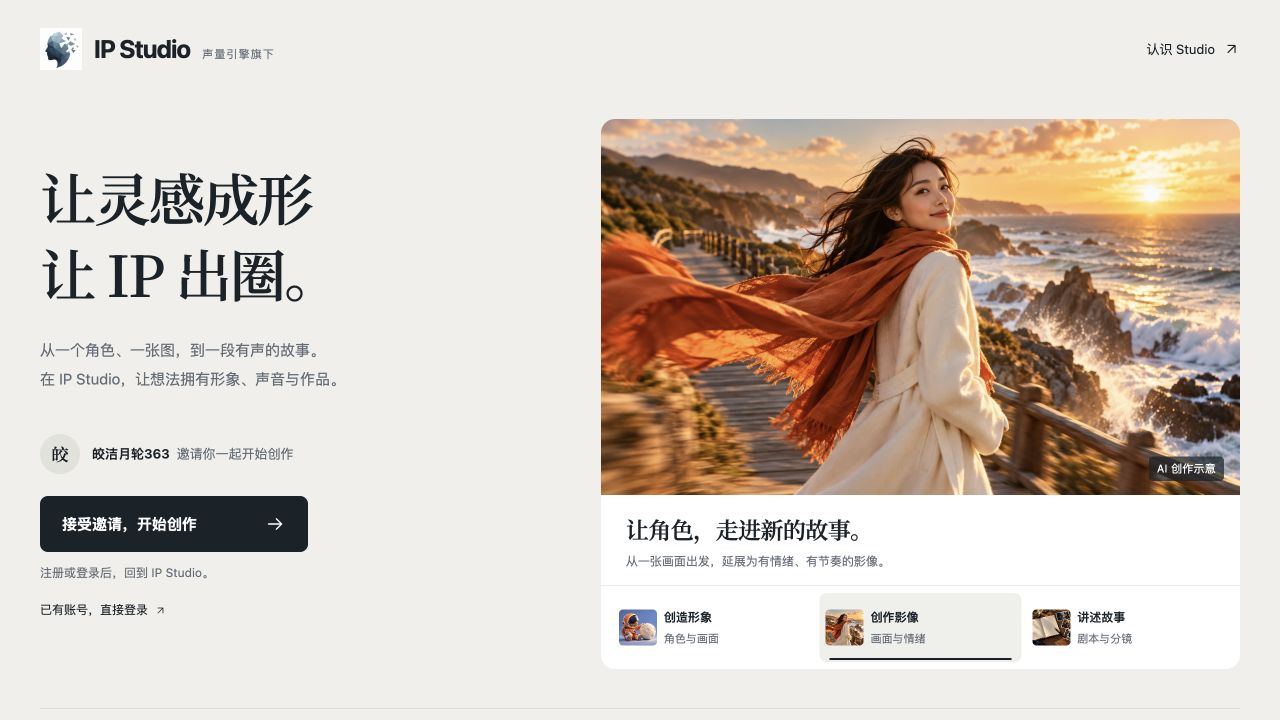
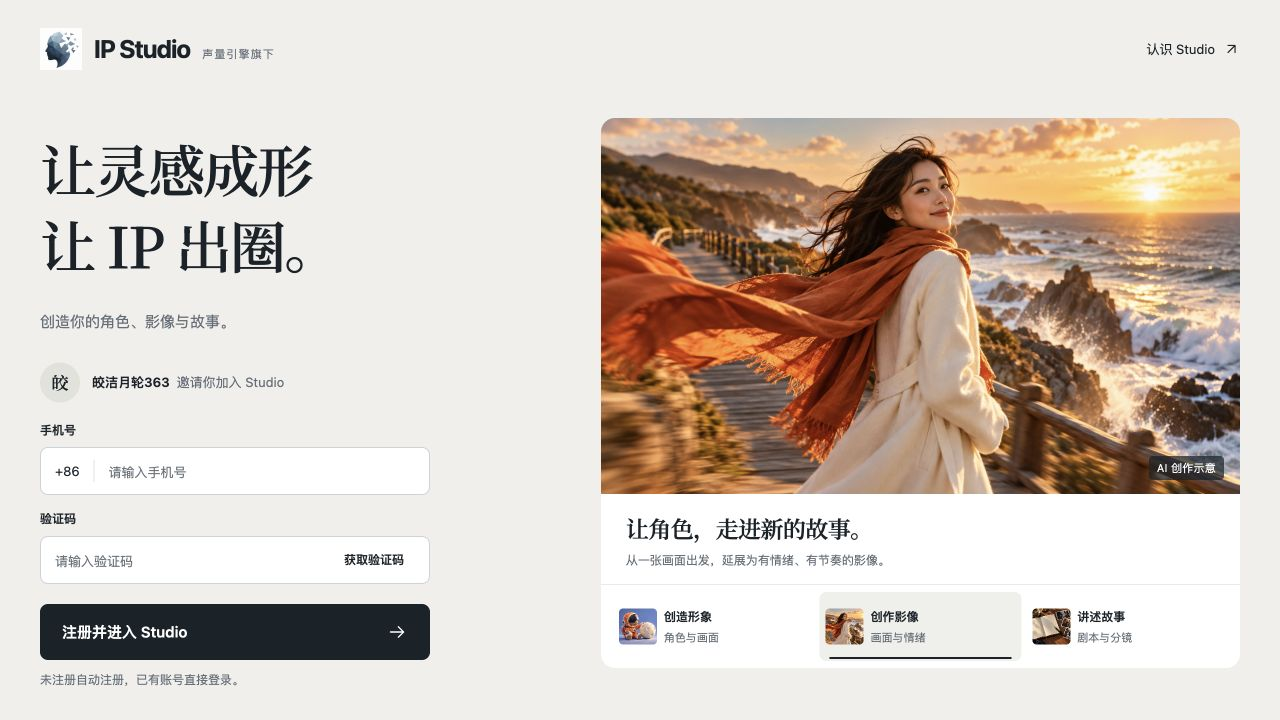
design(studio): 邀请页直接展示手机号注册表单

diff --git a/prototypes/studio-invitation/style.css b/prototypes/studio-invitation/style.css
@@ -1,6 +1,8 @@
 :root{--bg:#f0efec;--paper:#fff;--ink:#192229;--muted:#626c76;--line:#d9dcde;--soft:#f6f6f5;--serif:'Noto Serif SC','Songti SC',serif;--sans:'Manrope','Noto Sans SC',-apple-system,BlinkMacSystemFont,'Segoe UI',sans-serif;--ease:cubic-bezier(.22,1,.36,1);color-scheme:light}
-*{box-sizing:border-box}[hidden]{display:none!important}html{scroll-behavior:smooth;scroll-padding-top:30px}body{margin:0;background:var(--bg);color:var(--ink);font:15px/1.65 var(--sans);padding-bottom:38px}::selection{background:#e5dac7;color:var(--ink)}button,select{font:inherit;color:inherit}button,a,summary,select{-webkit-tap-highlight-color:transparent}button{cursor:pointer}a{color:inherit;text-decoration:none}button:focus-visible,a:focus-visible,summary:focus-visible,select:focus-visible{outline:2px solid var(--ink);outline-offset:5px}h1,h2,h3,p{margin:0}svg{width:22px;height:22px;fill:none;stroke:currentColor;stroke-width:1.6;stroke-linecap:round;stroke-linejoin:round;flex-shrink:0}button:disabled{opacity:.55;cursor:default}.header{max-width:1344px;margin:auto;padding:28px 40px;display:flex;justify-content:space-between;align-items:center}.brand{display:flex;align-items:center;gap:12px}.brand img{object-fit:contain}.brand>span{display:flex;align-items:baseline;gap:12px}.brand strong{font-size:25px;letter-spacing:-.035em}.brand small{font-size:11px;color:var(--muted);letter-spacing:.1em}.quiet-link{display:inline-flex;align-items:center;gap:8px;font-size:13px}.quiet-link svg{width:17px;height:17px}.quiet-link:hover,.login-link:hover{text-decoration:underline;text-underline-offset:5px}main{max-width:1264px;margin:auto}.hero{display:grid;grid-template-columns:.9fr 1.1fr;align-items:center;gap:64px;min-height:610px;padding:20px 0 38px}.hero-copy{padding:0 0 0 20px}h1{font:600 clamp(45px,4.4vw,64px)/1.35 var(--serif);letter-spacing:-.035em}.period{font-family:var(--serif)}.intro{margin-top:25px;color:var(--muted);font-size:15px;line-height:1.95}.invitation{margin-top:40px;max-width:390px}.inviter{display:flex;gap:12px;align-items:center;margin-bottom:22px}.avatar{width:40px;height:40px;border-radius:50%;display:grid;place-items:center;background:#e2e2dc;font:600 17px var(--serif)}.inviter p{display:flex;flex-wrap:wrap;gap:3px 7px;line-height:1.65;font-size:13px}.inviter strong{font-weight:650}.inviter p span{color:var(--muted)}.primary{border:0;border-radius:8px;background:var(--ink);color:var(--paper);display:inline-flex;align-items:center;justify-content:space-between;gap:28px;min-height:56px;min-width:268px;padding:15px 22px;font-weight:600;transition:background .16s var(--ease)}.primary:hover{background:#323e45}.primary svg{width:21px}.return-note{font-size:12px;color:var(--muted);margin-top:11px}.login-link{font-size:12px;display:inline-block;min-height:40px;margin-top:7px;padding:4px 0;background:none;border:0}.login-link svg{width:12px;height:12px;vertical-align:middle;margin-left:3px}.showcase{background:var(--paper);border-radius:14px;overflow:hidden;min-width:0}.showcase-art{position:relative;aspect-ratio:1.7;background:#e3dfd7;overflow:hidden}.showcase-art>img{display:block;width:100%;height:100%;object-fit:cover;object-position:50% 50%;transition:filter .35s var(--ease)}.art-disclaimer{position:absolute;bottom:14px;right:16px;color:#fff;background:#192229b8;padding:3px 8px;border-radius:4px;font-size:11px;letter-spacing:.02em}.showcase-caption{padding:17px 25px 14px}.showcase-caption h2{font:600 23px/1.5 var(--serif);letter-spacing:-.025em}.showcase-caption p{color:var(--muted);font-size:12px;margin-top:5px}.tabs{display:grid;grid-template-columns:repeat(3,1fr);border-top:1px solid #e8eaec;padding:7px 12px;gap:5px}.tabs button{display:flex;gap:9px;align-items:center;border:0;background:transparent;text-align:left;min-height:69px;padding:8px 10px;border-radius:7px;position:relative}.tabs button[aria-selected=true]{background:#efefec}.tabs button[aria-selected=true]:after{content:'';position:absolute;left:10px;right:10px;bottom:2px;height:2px;background:var(--ink)}.tabs button:hover{background:var(--soft)}.tabs img{object-fit:cover;border-radius:4px}.tabs span{font-size:12px;font-weight:600;white-space:nowrap}.tabs small{display:block;font-size:11px;font-weight:400;color:var(--muted);margin-top:2px}.possibilities{border-top:1px solid var(--line);padding:50px 20px 55px}.section-heading{display:flex;justify-content:space-between;gap:30px;align-items:end}.section-heading h2{font:550 34px/1.5 var(--serif);letter-spacing:-.025em}.section-heading p{font-size:13px;color:var(--muted)}.capabilities{display:grid;grid-template-columns:repeat(3,1fr);margin-top:35px;gap:48px}.capabilities article{padding-top:20px;border-top:1px solid var(--line)}.capabilities h3{font-size:16px;font-weight:650}.capabilities p{color:var(--muted);font-size:13px;margin-top:10px;line-height:1.9}.questions{display:grid;grid-template-columns:1fr 2fr;gap:40px;background:var(--paper);border-radius:12px;padding:32px;margin:0 0 35px}.questions h2{font:550 22px/1.6 var(--serif)}details+details{border-top:1px solid #e8eaec}summary{cursor:pointer;list-style:none;min-height:48px;display:flex;align-items:center;justify-content:space-between;gap:14px;font-size:13px}summary::-webkit-details-marker{display:none}.summary-icon{width:18px;height:18px}details[open] .summary-icon .vertical{display:none}details p{padding:0 35px 20px 0;font-size:12px;color:var(--muted);max-width:65ch;line-height:1.9}.footer{max-width:1264px;padding:0 20px 22px;margin:auto;display:flex;align-items:center;justify-content:space-between;gap:24px;font-size:13px}.footer>span{font-weight:650}.footer small,.footer p{font-size:11px;color:var(--muted);font-weight:400}.preview-tools{position:fixed;bottom:0;left:0;right:0;z-index:5;display:flex;align-items:center;justify-content:center;gap:14px;background:#e7e7e3;border-top:1px solid #d5d8d8;font-size:11px;color:#56616a;height:34px}.preview-tools select{border:0;background:transparent;min-height:28px;font-size:11px;cursor:pointer}.state-message{font-size:13px;line-height:1.8;color:var(--muted);margin:0 0 20px;max-width:32ch}.state-message[hidden]{display:none}dialog{border:0;border-radius:14px;padding:38px;max-width:560px;width:calc(100% - 40px);background:var(--paper);color:var(--ink)}dialog::backdrop{background:#19222973}dialog form{position:relative}dialog h2{font:600 27px/1.5 var(--serif);margin:18px 0 13px}dialog p{color:var(--muted);font-size:13px;line-height:1.8}.close{display:grid;place-items:center;position:absolute;top:-20px;right:-20px;min-width:40px;min-height:40px;border:0;border-radius:50%;background:var(--soft);font-size:26px;font-weight:300}.flow{display:flex;align-items:center;justify-content:space-between;gap:8px;margin:25px 0;font-size:11px}.flow svg{width:17px;height:17px;color:var(--muted)}.flow strong{font-weight:650}dialog .primary{margin-top:23px;justify-content:center}.prototype-note{font-size:11px!important}.sr-only{position:absolute;width:1px;height:1px;margin:-1px;overflow:hidden;clip:rect(0,0,0,0)}
-html[data-layout=mobile] .header{padding:20px 22px}html[data-layout=mobile] .brand{gap:9px}html[data-layout=mobile] .brand img{width:34px;height:34px}html[data-layout=mobile] .brand>span{display:block}html[data-layout=mobile] .brand strong{display:block;font-size:22px;line-height:1.2}html[data-layout=mobile] .brand small{display:block;font-size:11px;line-height:1.4;letter-spacing:.08em;margin-top:3px}html[data-layout=mobile] .quiet-link{font-size:11px}html[data-layout=mobile] main{padding:0 22px}html[data-layout=mobile] .hero{display:flex;flex-direction:column;align-items:stretch;gap:30px;padding:24px 0 35px;min-height:0}html[data-layout=mobile] .hero-copy{padding:0}html[data-layout=mobile] h1{font-size:43px;line-height:1.4}html[data-layout=mobile] .intro{font-size:14px;line-height:1.9;margin-top:18px}html[data-layout=mobile] .invitation{margin-top:26px;max-width:none}html[data-layout=mobile] .inviter{margin-bottom:18px}html[data-layout=mobile] .inviter p{display:block;font-size:12px}html[data-layout=mobile] .inviter p span{display:block;font-size:11px}html[data-layout=mobile] .avatar{width:37px;height:37px}html[data-layout=mobile] .primary{width:100%;font-size:14px;min-height:52px;padding:14px 18px}html[data-layout=mobile] .return-note{font-size:12px;margin-top:9px}html[data-layout=mobile] .login-link{font-size:11px;margin-top:3px}html[data-layout=mobile] .showcase{border-radius:11px}html[data-layout=mobile] .showcase-art{aspect-ratio:1.35}html[data-layout=mobile] .showcase-caption{padding:15px 17px}html[data-layout=mobile] .showcase-caption h2{font-size:20px}html[data-layout=mobile] .showcase-caption p{font-size:11px}html[data-layout=mobile] .tabs{padding:5px 7px;gap:2px}html[data-layout=mobile] .tabs button{padding:7px 5px;gap:6px;min-height:63px}html[data-layout=mobile] .tabs img{width:30px;height:32px}html[data-layout=mobile] .tabs span{font-size:11px}html[data-layout=mobile] .tabs small{font-size:11px}html[data-layout=mobile] .tabs button[aria-selected=true]:after{left:5px;right:5px}html[data-layout=mobile] .art-disclaimer{font-size:11px;bottom:10px;right:10px}html[data-layout=mobile] .possibilities{padding:31px 0 35px}html[data-layout=mobile] .section-heading{display:block}html[data-layout=mobile] .section-heading h2{font-size:28px}html[data-layout=mobile] .section-heading p{margin-top:14px;font-size:12px}html[data-layout=mobile] .capabilities{display:flex;flex-direction:column;gap:20px;margin-top:24px}html[data-layout=mobile] .capabilities article{padding-top:19px}html[data-layout=mobile] .capabilities p{font-size:12px;margin-top:7px}html[data-layout=mobile] .capabilities p br{display:none}html[data-layout=mobile] .questions{display:block;padding:22px 20px;margin:0 0 26px}html[data-layout=mobile] .questions h2{font-size:20px;margin-bottom:14px}html[data-layout=mobile] summary{font-size:12px}html[data-layout=mobile] details p{font-size:11px;padding-right:10px}html[data-layout=mobile] .footer{padding:0 22px 20px;display:block}html[data-layout=mobile] .footer p{margin-top:5px}
+*{box-sizing:border-box}[hidden]{display:none!important}html{scroll-behavior:smooth;scroll-padding-top:30px}body{margin:0;background:var(--bg);color:var(--ink);font:15px/1.65 var(--sans);padding-bottom:38px}::selection{background:#e5dac7;color:var(--ink)}button,select{font:inherit;color:inherit}button,a,summary,select{-webkit-tap-highlight-color:transparent}button{cursor:pointer}a{color:inherit;text-decoration:none}button:focus-visible,a:focus-visible,summary:focus-visible,select:focus-visible{outline:2px solid var(--ink);outline-offset:5px}h1,h2,h3,p{margin:0}svg{width:22px;height:22px;fill:none;stroke:currentColor;stroke-width:1.6;stroke-linecap:round;stroke-linejoin:round;flex-shrink:0}button:disabled{opacity:.55;cursor:default}.header{max-width:1344px;margin:auto;padding:28px 40px;display:flex;justify-content:space-between;align-items:center}.brand{display:flex;align-items:center;gap:12px}.brand img{object-fit:contain}.brand>span{display:flex;align-items:baseline;gap:12px}.brand strong{font-size:25px;letter-spacing:-.035em}.brand small{font-size:11px;color:var(--muted);letter-spacing:.1em}.quiet-link{display:inline-flex;align-items:center;gap:8px;font-size:13px}.quiet-link svg{width:17px;height:17px}.quiet-link:hover{text-decoration:underline;text-underline-offset:5px}main{max-width:1264px;margin:auto}.hero{display:grid;grid-template-columns:.9fr 1.1fr;align-items:center;gap:64px;min-height:610px;padding:20px 0 38px}.hero-copy{padding:0 0 0 20px}h1{font:600 clamp(45px,4.4vw,64px)/1.35 var(--serif);letter-spacing:-.035em}.period{font-family:var(--serif)}.intro{margin-top:25px;color:var(--muted);font-size:15px;line-height:1.95}.invitation{margin-top:40px;max-width:390px}.inviter{display:flex;gap:12px;align-items:center;margin-bottom:22px}.avatar{width:40px;height:40px;border-radius:50%;display:grid;place-items:center;background:#e2e2dc;font:600 17px var(--serif)}.inviter p{display:flex;flex-wrap:wrap;gap:3px 7px;line-height:1.65;font-size:13px}.inviter strong{font-weight:650}.inviter p span{color:var(--muted)}.primary{border:0;border-radius:8px;background:var(--ink);color:var(--paper);display:inline-flex;align-items:center;justify-content:space-between;gap:28px;min-height:56px;min-width:268px;padding:15px 22px;font-weight:600;transition:background .16s var(--ease)}.primary:hover{background:#323e45}.primary svg{width:21px}.showcase{background:var(--paper);border-radius:14px;overflow:hidden;min-width:0}.showcase-art{position:relative;aspect-ratio:1.7;background:#e3dfd7;overflow:hidden}.showcase-art>img{display:block;width:100%;height:100%;object-fit:cover;object-position:50% 50%;transition:filter .35s var(--ease)}.art-disclaimer{position:absolute;bottom:14px;right:16px;color:#fff;background:#192229b8;padding:3px 8px;border-radius:4px;font-size:11px;letter-spacing:.02em}.showcase-caption{padding:17px 25px 14px}.showcase-caption h2{font:600 23px/1.5 var(--serif);letter-spacing:-.025em}.showcase-caption p{color:var(--muted);font-size:12px;margin-top:5px}.tabs{display:grid;grid-template-columns:repeat(3,1fr);border-top:1px solid #e8eaec;padding:7px 12px;gap:5px}.tabs button{display:flex;gap:9px;align-items:center;border:0;background:transparent;text-align:left;min-height:69px;padding:8px 10px;border-radius:7px;position:relative}.tabs button[aria-selected=true]{background:#efefec}.tabs button[aria-selected=true]:after{content:'';position:absolute;left:10px;right:10px;bottom:2px;height:2px;background:var(--ink)}.tabs button:hover{background:var(--soft)}.tabs img{object-fit:cover;border-radius:4px}.tabs span{font-size:12px;font-weight:600;white-space:nowrap}.tabs small{display:block;font-size:11px;font-weight:400;color:var(--muted);margin-top:2px}.possibilities{border-top:1px solid var(--line);padding:50px 20px 55px}.section-heading{display:flex;justify-content:space-between;gap:30px;align-items:end}.section-heading h2{font:550 34px/1.5 var(--serif);letter-spacing:-.025em}.section-heading p{font-size:13px;color:var(--muted)}.capabilities{display:grid;grid-template-columns:repeat(3,1fr);margin-top:35px;gap:48px}.capabilities article{padding-top:20px;border-top:1px solid var(--line)}.capabilities h3{font-size:16px;font-weight:650}.capabilities p{color:var(--muted);font-size:13px;margin-top:10px;line-height:1.9}.questions{display:grid;grid-template-columns:1fr 2fr;gap:40px;background:var(--paper);border-radius:12px;padding:32px;margin:0 0 35px}.questions h2{font:550 22px/1.6 var(--serif)}details+details{border-top:1px solid #e8eaec}summary{cursor:pointer;list-style:none;min-height:48px;display:flex;align-items:center;justify-content:space-between;gap:14px;font-size:13px}summary::-webkit-details-marker{display:none}.summary-icon{width:18px;height:18px}details[open] .summary-icon .vertical{display:none}details p{padding:0 35px 20px 0;font-size:12px;color:var(--muted);max-width:65ch;line-height:1.9}.footer{max-width:1264px;padding:0 20px 22px;margin:auto;display:flex;align-items:center;justify-content:space-between;gap:24px;font-size:13px}.footer>span{font-weight:650}.footer small,.footer p{font-size:11px;color:var(--muted);font-weight:400}.preview-tools{position:fixed;bottom:0;left:0;right:0;z-index:5;display:flex;align-items:center;justify-content:center;gap:14px;background:#e7e7e3;border-top:1px solid #d5d8d8;font-size:11px;color:#56616a;height:34px}.preview-tools select{border:0;background:transparent;min-height:28px;font-size:11px;cursor:pointer}.state-message{font-size:13px;line-height:1.8;color:var(--muted);margin:0 0 20px;max-width:32ch}.state-message[hidden]{display:none}.sr-only{position:absolute;width:1px;height:1px;margin:-1px;overflow:hidden;clip:rect(0,0,0,0)}
+html[data-layout=mobile] .header{padding:20px 22px}html[data-layout=mobile] .brand{gap:9px}html[data-layout=mobile] .brand img{width:34px;height:34px}html[data-layout=mobile] .brand>span{display:block}html[data-layout=mobile] .brand strong{display:block;font-size:22px;line-height:1.2}html[data-layout=mobile] .brand small{display:block;font-size:11px;line-height:1.4;letter-spacing:.08em;margin-top:3px}html[data-layout=mobile] .quiet-link{font-size:11px}html[data-layout=mobile] main{padding:0 22px}html[data-layout=mobile] .hero{display:flex;flex-direction:column;align-items:stretch;gap:30px;padding:24px 0 35px;min-height:0}html[data-layout=mobile] .hero-copy{padding:0}html[data-layout=mobile] h1{font-size:43px;line-height:1.4}html[data-layout=mobile] .intro{font-size:14px;line-height:1.9;margin-top:18px}html[data-layout=mobile] .invitation{margin-top:26px;max-width:none}html[data-layout=mobile] .inviter{margin-bottom:18px}html[data-layout=mobile] .inviter p{display:block;font-size:12px}html[data-layout=mobile] .inviter p span{display:block;font-size:11px}html[data-layout=mobile] .avatar{width:37px;height:37px}html[data-layout=mobile] .primary{width:100%;font-size:14px;min-height:52px;padding:14px 18px}html[data-layout=mobile] html[data-layout=mobile] html[data-layout=mobile] .showcase{border-radius:11px}html[data-layout=mobile] .showcase-art{aspect-ratio:1.35}html[data-layout=mobile] .showcase-caption{padding:15px 17px}html[data-layout=mobile] .showcase-caption h2{font-size:20px}html[data-layout=mobile] .showcase-caption p{font-size:11px}html[data-layout=mobile] .tabs{padding:5px 7px;gap:2px}html[data-layout=mobile] .tabs button{padding:7px 5px;gap:6px;min-height:63px}html[data-layout=mobile] .tabs img{width:30px;height:32px}html[data-layout=mobile] .tabs span{font-size:11px}html[data-layout=mobile] .tabs small{font-size:11px}html[data-layout=mobile] .tabs button[aria-selected=true]:after{left:5px;right:5px}html[data-layout=mobile] .art-disclaimer{font-size:11px;bottom:10px;right:10px}html[data-layout=mobile] .possibilities{padding:31px 0 35px}html[data-layout=mobile] .section-heading{display:block}html[data-layout=mobile] .section-heading h2{font-size:28px}html[data-layout=mobile] .section-heading p{margin-top:14px;font-size:12px}html[data-layout=mobile] .capabilities{display:flex;flex-direction:column;gap:20px;margin-top:24px}html[data-layout=mobile] .capabilities article{padding-top:19px}html[data-layout=mobile] .capabilities p{font-size:12px;margin-top:7px}html[data-layout=mobile] .capabilities p br{display:none}html[data-layout=mobile] .questions{display:block;padding:22px 20px;margin:0 0 26px}html[data-layout=mobile] .questions h2{font-size:20px;margin-bottom:14px}html[data-layout=mobile] summary{font-size:12px}html[data-layout=mobile] details p{font-size:11px;padding-right:10px}html[data-layout=mobile] .footer{padding:0 22px 20px;display:block}html[data-layout=mobile] .footer p{margin-top:5px}
 @media(min-width:960px) and (max-width:1330px){main{margin:0 40px}.hero{gap:38px}.hero-copy{padding-left:0}.tabs img{width:38px;height:36px}.tabs button{padding:8px 6px;gap:7px}.tabs small{font-size:11px}}
 @media(prefers-reduced-motion:reduce){html{scroll-behavior:auto}*,*:before,*:after{transition:none!important;animation:none!important}}
 html[data-capture] .preview-tools{display:none}html[data-capture] body{padding-bottom:0}
+
+.invitation{margin-top:26px;max-width:390px}.inviter{margin-bottom:18px}.field-label{display:block;font-size:12px;font-weight:600;margin:14px 0 7px}.phone-field,.code-field{display:flex;align-items:center;min-height:48px;background:var(--paper);border:1px solid #cfd3d6;border-radius:8px;overflow:hidden}.phone-field:focus-within,.code-field:focus-within{border-color:var(--ink)}.phone-field input,.code-field input{font:inherit;font-size:16px;min-width:0;width:100%;height:46px;border:0;border-radius:0;padding:11px 14px;background:transparent;outline:none;color:var(--ink);caret-color:var(--ink)}.phone-field input::placeholder,.code-field input::placeholder{color:#69737b;font-size:13px}.country-code{padding:0 14px;border-right:1px solid #dfe2e3;font-size:13px;line-height:22px}.code-field button{align-self:stretch;flex-shrink:0;min-width:110px;padding:0 14px;border:0;background:transparent;font-size:12px;font-weight:600}.code-field button:hover:not(:disabled){background:var(--soft)}.code-field button:focus-visible{outline-offset:-5px}.register-submit{width:100%;margin-top:20px}.registration-note{font-size:12px;color:var(--muted);margin-top:10px}.form-error,.form-status{font-size:12px;line-height:1.7;margin-top:11px}.form-error{color:#a43845}.form-status{color:#28694f}.state-message{margin-bottom:14px}.hero{align-items:start}.hero-copy{padding-top:12px}html[data-layout=mobile] .hero-copy{padding:0}html[data-layout=mobile] .intro{margin-top:12px}html[data-layout=mobile] .invitation{margin-top:20px}html[data-layout=mobile] .inviter{margin-bottom:14px}html[data-layout=mobile] .inviter p{display:flex;gap:4px 7px;align-items:baseline}html[data-layout=mobile] .inviter p span{font-size:12px}html[data-layout=mobile] .field-label{font-size:12px}html[data-layout=mobile] .register-submit{margin-top:18px}html[data-layout=mobile] .registration-note{font-size:11px}

diff --git a/prototypes/studio-invitation/app.js b/prototypes/studio-invitation/app.js
@@ -18,19 +18,54 @@ function selectScene(tab){
  document.querySelector('#showcase-panel').setAttribute('aria-labelledby',tab.id);
 }
 tabs.forEach((tab,index)=>{tab.addEventListener('click',()=>selectScene(tab));tab.addEventListener('keydown',event=>{let next;if(event.key==='ArrowRight')next=(index+1)%tabs.length;if(event.key==='ArrowLeft')next=(index-1+tabs.length)%tabs.length;if(event.key==='Home')next=0;if(event.key==='End')next=tabs.length-1;if(next!==undefined){event.preventDefault();tabs[next].focus();selectScene(tabs[next])}})});
-const dialog=document.querySelector('#flow-dialog'),accept=document.querySelector('#accept'),existing=document.querySelector('#existing'),stateInput=document.querySelector('#preview-state');
-function showFlow(existingAccount=false){
- document.querySelector('#dialog-copy').textContent=existingAccount?'正式接入后，这里会完成已有账号登录，再自动回到 IP Studio；不会新增或改写邀请关系。':'正式接入后，这里会前往统一账号中心完成注册或登录，再自动回到 IP Studio。';
- dialog.showModal();
+const form=document.querySelector('#registration-form');
+const phone=document.querySelector('#phone'),codeInput=document.querySelector('#verification-code');
+const sendCode=document.querySelector('#send-code'),submit=document.querySelector('#register');
+const stateInput=document.querySelector('#preview-state');
+const error=document.querySelector('#form-error'),status=document.querySelector('#form-status');
+let resendTimer,codeIssued=false;
+function feedback(text,isError=false){
+ const target=isError?error:status,other=isError?status:error;
+ other.hidden=true;other.textContent='';target.textContent=text;target.hidden=!text;
 }
-accept.addEventListener('click',()=>{if(stateInput.value==='error'){setState('normal');return}if(stateInput.value==='expired'){document.querySelector('#possibilities').scrollIntoView({behavior:'smooth'});return}showFlow(stateInput.value==='existing')});
-existing.addEventListener('click',()=>showFlow(true));
-dialog.addEventListener('click',event=>{if(event.target===dialog)dialog.close()});
+function validPhone(){
+ if(/^1[3-9]\d{9}$/.test(phone.value.trim())){phone.removeAttribute('aria-invalid');return true}
+ phone.setAttribute('aria-invalid','true');feedback('请输入正确的 11 位手机号。',true);phone.focus();return false;
+}
+sendCode.addEventListener('click',()=>{
+ if(sendCode.disabled||!validPhone())return;
+ codeIssued=true;sendCode.disabled=true;
+ feedback('设计演示：验证码 123456，不会发送短信。');
+ let remaining=60;sendCode.textContent=remaining+' 秒后重试';
+ resendTimer=setInterval(()=>{remaining--;sendCode.textContent=remaining+' 秒后重试';if(remaining<=0){clearInterval(resendTimer);sendCode.disabled=false;sendCode.textContent='重新获取'}},1000);
+ codeInput.focus();
+});
+phone.addEventListener('input',()=>{
+ codeIssued=false;clearInterval(resendTimer);sendCode.disabled=false;sendCode.textContent='获取验证码';
+ phone.removeAttribute('aria-invalid');feedback('');
+});
+codeInput.addEventListener('input',()=>{codeInput.removeAttribute('aria-invalid');error.hidden=true});
+form.addEventListener('submit',event=>{
+ event.preventDefault();if(submit.disabled||!validPhone())return;
+ if(!codeIssued){feedback('请先获取验证码。',true);sendCode.focus();return}
+ if(codeInput.value.trim()!=='123456'){codeInput.setAttribute('aria-invalid','true');feedback('请输入演示验证码 123456。',true);codeInput.focus();return}
+ codeInput.removeAttribute('aria-invalid');submit.disabled=true;submit.querySelector('span').textContent='演示已完成';
+ feedback('演示完成。正式接入后将直接进入 Studio。');
+ clearInterval(resendTimer);sendCode.disabled=true;
+});
 function setState(state){
  if(!['normal','existing','expired','error'].includes(state))state='normal';
- stateInput.value=state;const message=document.querySelector('#state-message');
- const config={normal:{text:'',label:'接受邀请，开始创作',inviter:true},existing:{text:'你已有账号，可以直接进入 Studio。原有邀请关系保持不变。',label:'进入 IP Studio',inviter:true},expired:{text:'这次邀请暂不可用。你仍然可以了解 Studio，或联系朋友重新获取邀请链接。',label:'了解 IP Studio',inviter:false},error:{text:'暂时无法读取朋友的邀请。请重试，或稍后重新打开链接。',label:'重新读取邀请',inviter:false}}[state]||{};
- message.textContent=config.text;message.hidden=!config.text;document.querySelector('#inviter').hidden=!config.inviter;
- accept.querySelector('span').textContent=config.label;document.querySelector('#return-note').hidden=state==='expired'||state==='error';existing.hidden=state==='existing';
+ stateInput.value=state;form.reset();clearInterval(resendTimer);codeIssued=false;
+ submit.disabled=false;submit.querySelector('span').textContent=state==='existing'?'登录并进入 Studio':'注册并进入 Studio';
+ sendCode.disabled=false;sendCode.textContent='获取验证码';feedback('');
+ phone.removeAttribute('aria-invalid');codeInput.removeAttribute('aria-invalid');
+ const message=document.querySelector('#state-message');
+ message.textContent=state==='expired'?'邀请已失效，仍可正常注册。':state==='error'?'暂时无法读取邀请，请重试。':'';
+ message.hidden=!message.textContent;
+ document.querySelector('#inviter').hidden=state==='expired'||state==='error';
+ document.querySelector('#registration-fields').hidden=state==='error';
+ document.querySelector('#retry-invitation').hidden=state!=='error';
 }
-stateInput.addEventListener('change',()=>setState(stateInput.value));setState(new URLSearchParams(location.search).get('state')||'normal');
+document.querySelector('#retry-invitation').addEventListener('click',()=>setState('normal'));
+stateInput.addEventListener('change',()=>setState(stateInput.value));
+setState(new URLSearchParams(location.search).get('state')||'normal');

diff --git a/prototypes/studio-invitation/index.html b/prototypes/studio-invitation/index.html
@@ -15,13 +15,23 @@
 <section class="hero" aria-labelledby="hero-title">
   <div class="hero-copy">
     <h1 id="hero-title">让灵感成形<br>让 IP 出圈<span class="period">。</span></h1>
-    <p class="intro">从一个角色、一张图，到一段有声的故事。<br>在 IP Studio，让想法拥有形象、声音与作品。</p>
+    <p class="intro">创造你的角色、影像与故事。</p>
     <section class="invitation" aria-label="朋友的邀请">
-      <div class="inviter" id="inviter"><span class="avatar" aria-hidden="true">皎</span><p><strong id="inviter-name">皎洁月轮363</strong><span>邀请你一起开始创作</span></p></div>
+      <div class="inviter" id="inviter"><span class="avatar" aria-hidden="true">皎</span><p><strong id="inviter-name">皎洁月轮363</strong><span>邀请你加入 Studio</span></p></div>
       <p class="state-message" id="state-message" role="status" hidden></p>
-      <button class="primary" id="accept" type="button"><span>接受邀请，开始创作</span><svg viewBox="0 0 24 24" aria-hidden="true"><path d="M4 12h15m-6-6 6 6-6 6"/></svg></button>
-      <p class="return-note" id="return-note">注册或登录后，回到 IP Studio。</p>
-      <button class="login-link" id="existing" type="button">已有账号，直接登录 <svg viewBox="0 0 24 24" aria-hidden="true"><path d="M7 17 17 7M7 7h10v10"/></svg></button>
+      <form id="registration-form" novalidate>
+        <div class="registration-fields" id="registration-fields">
+          <label class="field-label" for="phone">手机号</label>
+          <div class="phone-field"><span class="country-code">+86</span><input id="phone" name="phone" type="tel" inputmode="numeric" autocomplete="tel-national" placeholder="请输入手机号" maxlength="11" required aria-describedby="form-error"></div>
+          <label class="field-label" for="verification-code">验证码</label>
+          <div class="code-field"><input id="verification-code" name="code" type="text" inputmode="numeric" autocomplete="one-time-code" placeholder="请输入验证码" maxlength="6" required aria-describedby="form-error"><button id="send-code" type="button">获取验证码</button></div>
+          <p class="form-error" id="form-error" role="alert" hidden></p>
+          <p class="form-status" id="form-status" role="status" hidden></p>
+          <button class="primary register-submit" id="register" type="submit"><span>注册并进入 Studio</span><svg viewBox="0 0 24 24" aria-hidden="true"><path d="M4 12h15m-6-6 6 6-6 6"/></svg></button>
+          <p class="registration-note" id="registration-note">未注册自动注册，已有账号直接登录。</p>
+        </div>
+        <button class="primary" id="retry-invitation" type="button" hidden>重新读取邀请</button>
+      </form>
     </section>
   </div>
   <div class="showcase" aria-label="探索 Studio 创作方向">
@@ -47,14 +57,11 @@
 </section>
 <section class="questions" aria-label="关于这次邀请">
   <h2>关于这次邀请</h2>
-  <div><details><summary>接受邀请后，会发生什么？<svg class="summary-icon" viewBox="0 0 24 24" aria-hidden="true"><path d="M6 12h12"/><path class="vertical" d="M12 6v12"/></svg></summary><p>完成账号验证后回到 IP Studio。新账号会记录这次邀请；各项创作能力仍按账号开通情况和具体使用规则提供。</p></details><details><summary>已经有账号，还能接受吗？<svg class="summary-icon" viewBox="0 0 24 24" aria-hidden="true"><path d="M6 12h12"/><path class="vertical" d="M12 6v12"/></svg></summary><p>你可以正常登录并进入 Studio。已有账号不会新增或改变注册邀请关系。</p></details></div>
+  <div><details><summary>注册后，会发生什么？<svg class="summary-icon" viewBox="0 0 24 24" aria-hidden="true"><path d="M6 12h12"/><path class="vertical" d="M12 6v12"/></svg></summary><p>验证手机号后直接进入 IP Studio。新账号会记录这次邀请；各项创作能力仍按账号开通情况和具体使用规则提供。</p></details><details><summary>已有账号可以登录吗？<svg class="summary-icon" viewBox="0 0 24 24" aria-hidden="true"><path d="M6 12h12"/><path class="vertical" d="M12 6v12"/></svg></summary><p>使用同一表单验证手机号即可登录，原有邀请关系保持不变。</p></details></div>
 </section>
 </main>
 <footer class="footer"><span>IP Studio <small>· 声量引擎旗下</small></span><p>让灵感成形，让 IP 出圈。</p></footer>
 <div class="preview-tools"><span>设计预览</span><label class="sr-only" for="preview-state">切换邀请状态</label><select id="preview-state"><option value="normal">正常邀请</option><option value="existing">已有账号</option><option value="expired">邀请失效</option><option value="error">读取失败</option></select></div>
-<dialog id="flow-dialog" aria-labelledby="dialog-title">
-  <form method="dialog"><button class="close" aria-label="关闭原型说明"><svg viewBox="0 0 24 24" aria-hidden="true"><path d="m6 6 12 12M18 6 6 18"/></svg></button><img class="dialog-logo" src="assets/logo.png" alt="" width="48" height="48"><h2 id="dialog-title">回到 Studio，继续创作。</h2><p id="dialog-copy">正式接入后，这里会前往统一账号中心完成注册或登录，再自动回到 IP Studio。</p><div class="flow"><span>接受朋友邀请</span><svg viewBox="0 0 24 24" aria-hidden="true"><path d="M4 12h15m-6-6 6 6-6 6"/></svg><span>完成账号验证</span><svg viewBox="0 0 24 24" aria-hidden="true"><path d="M4 12h15m-6-6 6 6-6 6"/></svg><strong>返回 Studio</strong></div><p class="prototype-note">这是交互设计稿，不会发送短信或创建账号。</p><button class="primary" value="close">继续查看设计</button></form>
-</dialog>
 <script src="app.js"></script>
 </body>
 </html>

diff --git a/docs/prototypes/studio-invitation-design.md b/docs/prototypes/studio-invitation-design.md
@@ -1,45 +1,41 @@
 # Studio 邀请落地页设计
 
-2026-10-17 · 独立交互设计稿，尚未接入或替换线上邀请链路。
+2026-10-17 · v2 直接注册稿。独立交互原型，尚未接入生产短信、注册或替换线上邀请链接。
 
-来访者是收到朋友链接、还不了解 Studio 的创作者。首屏应回答：朋友邀请我用什么、能做出什么、接受后去哪里。沿用 Studio 已确认的首页品牌与摄影素材，在同一视觉语言内增加邀请信息和单一主动作，不重新设计品牌。
+用户最新要求：打开邀请链接就能输入手机号注册，不再先点“接受邀请”。保留 Studio 品牌与产品展示，邀请区简化为一行邀请人、手机号、验证码、注册按钮。
 
-- 分享地址应在 Studio：`https://aistar.aibuzz.cn/invite/{code}`。首屏保留 IP Studio、声量引擎归属、品牌口号、朋友的邀请和创作示意。
-- 产品证明来自人物、影像与故事的视觉示意和可切换展示，不增加用户数、收益、获赠积分、免费使用或效果保证。
-- 主动作“接受邀请，开始创作”；认证交给 ID，完成后回 Studio。已有账号登录不新增邀请关系；注册不等于产品开通。
-- 手机先看品牌、邀请人、主动作，再看内容；主动作在首屏内。桌面以双栏形成文字与作品的对话。
-- 原型包含正常邀请、已有账号、邀请失效、读取失败四种状态；CTA 只展示接入说明，不发短信、不建账号、不调用生产 API。
+- 主按钮：**注册并进入 Studio**。手机号验证、创建账号和邀请绑定由 ID 负责，成功后直接进入 Studio。
+- 新账号注册、已有账号登录使用同一验证码表单，不需要额外选择登录方式。已有账号的原邀请关系不变。
+- 删除“接受邀请”、说明弹窗、“注册或登录后回到 Studio”和重复登录入口；产品介绍缩为一句。
+- 邀请失效时清楚说明可普通注册；读取失败时先重试，不悄悄丢失邀请码。
+- 保留品牌口号、摄影示意和人物／影像／故事切换；不新增用户数、奖励、积分或免费使用承诺。
 
 ## Direction contract
 
-THESIS：在 Studio 既有公开首页上增加朋友邀请这一明确入口，以创作画面说明产品，以邀请人建立来访上下文。
+THESIS：朋友的邀请与手机号注册放在同一个 Studio 页面，来访后直接填写，没有中间确认页或接受按钮。
 
-OWN-WORLD：继承暖灰底、白纸面、深墨操作、中文衬线标题、蓝灰品牌图标与暖色摄影；不用另一套账号中心视觉替代产品。
+OWN-WORLD：继承 Studio 暖灰、白面、深墨按钮、中文衬线、品牌图标与暖色摄影；表单复用相同材料语言。
 
-STORY：识别 Studio → 看见人物、影像和故事 → 认出朋友的邀请 → 接受并完成账号验证 → 返回 Studio。
+STORY：打开朋友链接 → 输入手机号并获取验证码 → 注册或登录 → 进入 Studio。
 
-FIRST VIEWPORT：桌面左侧为两行品牌主标题、产品说明与邀请行动，右侧为大幅创作示意及三个可切换方向；手机将邀请与行动放在大图之前，避免接受入口掉出首屏。
+FIRST VIEWPORT：桌面左侧品牌标题和邀请注册表单，右侧创作示意；手机先显示品牌和表单，主提交按钮在首屏内，产品画面排在其后。
 
-FORM：既有 Studio 首页的局部扩展；继续原双栏图文结构，只替换创作入口为邀请上下文，因此不另起视觉世界或方向抽签。交互锚点是人物／影像／故事切换。
+FORM：既有 Studio 首页的局部扩展；保留双栏构图，以手机号表单替换邀请确认模块。不重设全局视觉系统。
 
 FINISH：unreviewed and undocumented is unfinished; this build ends with the finish review, the verdict, DESIGN.md, and every shipping raster carrying its provenance
 
-## 业务与后续接入边界
+## 原型与接入边界
 
-ID 保存邀请码和邀请关系；Studio 只提供品牌入口和本人视图。后续用既有 OIDC/PKCE 携带邀请码并保留应用回跳；不可接受任意 return URL，不改产品开通和积分。
+[打开方式及交互](../../prototypes/studio-invitation/README.md)。演示验证码固定为 `123456`；输入仅存在当前页面，不会发送短信、提交手机号、创建账号或写邀请关系。错误、重发倒计时和提交反馈是原型行为，不能作为真实注册验收。
 
-初版 ID/Studio 功能代码已经部署，但本次线上首注册闭环尚未验收。用户指出通用 ID 链接脱离 Studio 后，调整为先审阅本页设计，再继续应用入口与注册回跳修正。指定测试手机号已按用户要求释放，旧账号归档、撤销登录并发送注销事件；本设计稿不再操作该账号。
+正式接入时，Studio 保持该品牌表单，ID 继续提供短信验证、账号创建和邀请绑定；不再使用“先跳通用 ID 邀请页、再接受”的路径。保留邀请码与应用回跳约束，不将身份或邀请真值放入 Studio，也不因注册自动开通产品。
 
-## 设计检查说明
+初版邀请后台与管理视图已部署；完整线上首注册闭环待新入口接入后验收，见[发布记录](../unified-account-referral-production-release-20261017.md)。指定测试手机号已释放，本次仅修改设计稿，不再操作生产账号。
 
-已执行一次静态设计检查：功能小字已统一提升至至少 11px；图片裁切容器和 `details` 被误报为贴边，实际图片为有意满铺，说明内容由内部留白承载。标题 shorthand 被扫描器误读为正文大小，浏览器实际手机主标题 43px、桌面约 56px；以真实页面测量和截图为准。原始检测输出保留在预览截图目录，不通过扩大忽略规则来隐藏报告。
+## 设计证据
 
-## 原型验证与独立复核
+截图位于[预览目录](studio-invitation-preview/)。`capture` 参数只隐藏原型状态切换工具条，保留所有产品内容。设备形态与原型局部适配见[设计系统核对](studio-invitation-design-system-check.md)；既有 DESIGN.md 保留。
 
-实际浏览器验证 1280×720 和 390×844，均无横向溢出；390px 主按钮底边约 434px，位于首屏。人物／影像／故事可切换，方向键可移动标签；CTA 弹出接入说明，关闭正常；邀请失效隐藏邀请人、读取失败可重试恢复正常。此处是原型交互验证，不是生产认证验证。
+## v2 验证
 
-四张有效截图见 [预览目录](studio-invitation-preview/)；截图 URL 的 `capture` 参数仅隐藏原型工具条，避免固定工具条遮挡长图，不隐藏页面内容。原型默认保留状态切换工具条。
-
-独立 finish reviewer 首轮确认品牌、产品表达、邀请与手机动线达到原型要求，只要求 FAQ 字符图标换为 SVG。已按同一笔画修正；单项复核为 **resolved，disposition: ship**，重拍四张截图有效，未发现本次修复引入的回归。该最终复核仅对唯一修复项作确认，非生产功能验收。
-
-设计系统对应关系与原型局部差异见[核对记录](studio-invitation-design-system-check.md)。原有 DESIGN.md 保留，没有将原型局部样式升级为全应用规则。
+实际浏览器已验证空手机号报错、获取本地演示验证码、填写后单次提交；页面不存在 dialog。正常进入即显示表单，读取失败先重试；没有调用生产短信。1280×720 和390×844均无横向溢出，主按钮底边分别约660px、572px，在首屏内。四张截图已更新。独立复核 disposition: ship，必改项无；结论只覆盖本原型，不代表真实注册验收。

diff --git a/docs/prototypes/studio-invitation-design-system-check.md b/docs/prototypes/studio-invitation-design-system-check.md
@@ -28,8 +28,8 @@
 ## 页面交互与状态
 
 - 人物／影像／故事切换会同步图片、替代文本、标题和说明，保留 `tablist` / `tab` / `tabpanel` 关系、选中状态与方向键、Home、End 键支持。展示的是静态创作示意，没有视频播放行为。
-- 主 CTA 与已有账号入口打开原型说明弹窗；原生 dialog 提供关闭按钮、Esc 与点击遮罩关闭。弹窗说明认证后返回 Studio，不触发认证。
-- 预览工具及 `?state=` 展示正常邀请、已有账号、邀请失效、读取失败四种状态。已有账号保持原关系；失效状态隐藏邀请人并引导了解产品；失败状态展示重试文案，点击只模拟恢复正常状态。
+- 邀请区直接显示手机号、验证码和“注册并进入 Studio”；取消“接受邀请”、重复登录入口和说明弹窗。手机号与验证码有持续可见标签、数字键盘及自动填充属性；同一表单覆盖注册和已有账号登录。获取验证码与提交仅作本地演示，不触发认证。
+- 预览工具及 `?state=` 展示正常邀请、已有账号、邀请失效、读取失败四种状态。已有账号沿用同一验证码表单、保持原关系；失效状态隐藏邀请人并说明仍可普通注册；读取失败隐藏表单并提供重试，避免误当作无邀请注册。
 - FAQ 使用原生 details；展开图标已是内联 SVG，展开时隐藏竖线。焦点可见，减少动态偏好关闭过渡和滚动动画。
 
 这些状态与交互仅记录本页行为，不新增通用业务组件、全局状态色或加载规范。截图证明布局与可读性；本记录对脚本进行静态核对，不将其表述为完整的认证或无障碍验收。
@@ -41,3 +41,5 @@
 尚未接入邀请码解析、ID 本人 API、短信、注册、登录、OIDC/PKCE、邀请绑定与应用回跳；没有创建账号、调用生产 API 或改变产品开通、积分。未来接入仍由 ID 保存关系，已有账号不新增或改写注册邀请关系，注册不代表产品开通。
 
 本次未发现需要为邀请页修改既有系统文档的新增规则；所列原型值差异及设备偏好边界均留作接入记录，没有借此修订既有文档或处理其他页面的漂移。
+
+2026-10-17 v2：用户要求取消中间点击，已以直接手机号／验证码表单替换确认模块；品牌、图片、字体与全局系统保持。独立复核已查看更新后的四张截图，结论 ship、无必改项。此增量不新增全局设计规则。

diff --git a/docs/unified-account-referral-frontend.md b/docs/unified-account-referral-frontend.md
@@ -6,7 +6,7 @@
 
 ## 最新调整：Studio 品牌邀请页（设计稿）
 
-用户指出直接进入 ID 通用邀请页脱离 Studio。正式分享入口拟改为 Studio `/invite/{code}`，先展示产品品牌、邀请人、创作示意与接受邀请；仅账号验证交给 ID，完成后返回 Studio。邀请关系仍是 ID 唯一真值，不因来自不同应用而另建关系。此调整先交付[独立可交互原型](../prototypes/studio-invitation/README.md)与[设计说明](prototypes/studio-invitation-design.md)，不把设计稿当成已接入功能；下文描述首版现状。
+用户指出直接进入 ID 通用邀请页脱离 Studio。正式分享入口拟改为 Studio `/invite/{code}`，先展示产品品牌、邀请人与创作示意，邀请区直接输入手机号、验证码并注册；取消“接受邀请”和中间弹窗。短信校验、建号与绑定仍归 ID，成功后进入 Studio。邀请关系仍是 ID 唯一真值，不因来自不同应用而另建关系。此调整先交付[独立可交互原型](../prototypes/studio-invitation/README.md)与[设计说明](prototypes/studio-invitation-design.md)，不把设计稿当成已接入功能；下文描述首版现状。
 
 ## 1. 页面与入口
 

diff --git a/prototypes/studio-invitation/README.md b/prototypes/studio-invitation/README.md
@@ -8,6 +8,8 @@
 python3 -m http.server 3068 --bind 127.0.0.1 --directory prototypes/studio-invitation
 ```
 
-打开 http://127.0.0.1:3068 。可切换人物／影像／故事，点击主动作查看认证后回 Studio 的接入说明，展开邀请说明，底部切换正常／已有账号／失效／读取失败状态。390px 手机与桌面使用同一份内容。
+打开 http://127.0.0.1:3068 。可切换人物／影像／故事，直接输入手机号、获取演示验证码并提交注册表单，展开邀请说明，底部切换正常／已有账号／失效／读取失败状态。390px 手机与桌面使用同一份内容。
 
 设计说明：[设计稿](../../docs/prototypes/studio-invitation-design.md)。素材与字体来源见 [SOURCES](assets/SOURCES.md)。
+
+2026-10-17 简化版：取消“接受邀请”和说明弹窗，首屏直接展示手机号、验证码与“注册并进入 Studio”。演示验证码为 123456，不会发送短信、提交手机号或创建账号。
